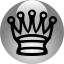
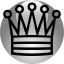
add scripts

diff --git a/src/GameWindow.java b/src/GameWindow.java
@@ -51,7 +51,7 @@ public class GameWindow extends JFrame implements MouseListener, Runnable {
                     image.fillTile(61, 61, "whitesmallpiece.png");
                     break;
                 case BLACK:
-                    image.fillTile(61, 61, "whitesmallpiece.png");
+                    image.fillTile(61, 61, "blacksmallpiece.png");
             }
         }
         gamePanel.setImage(image);
